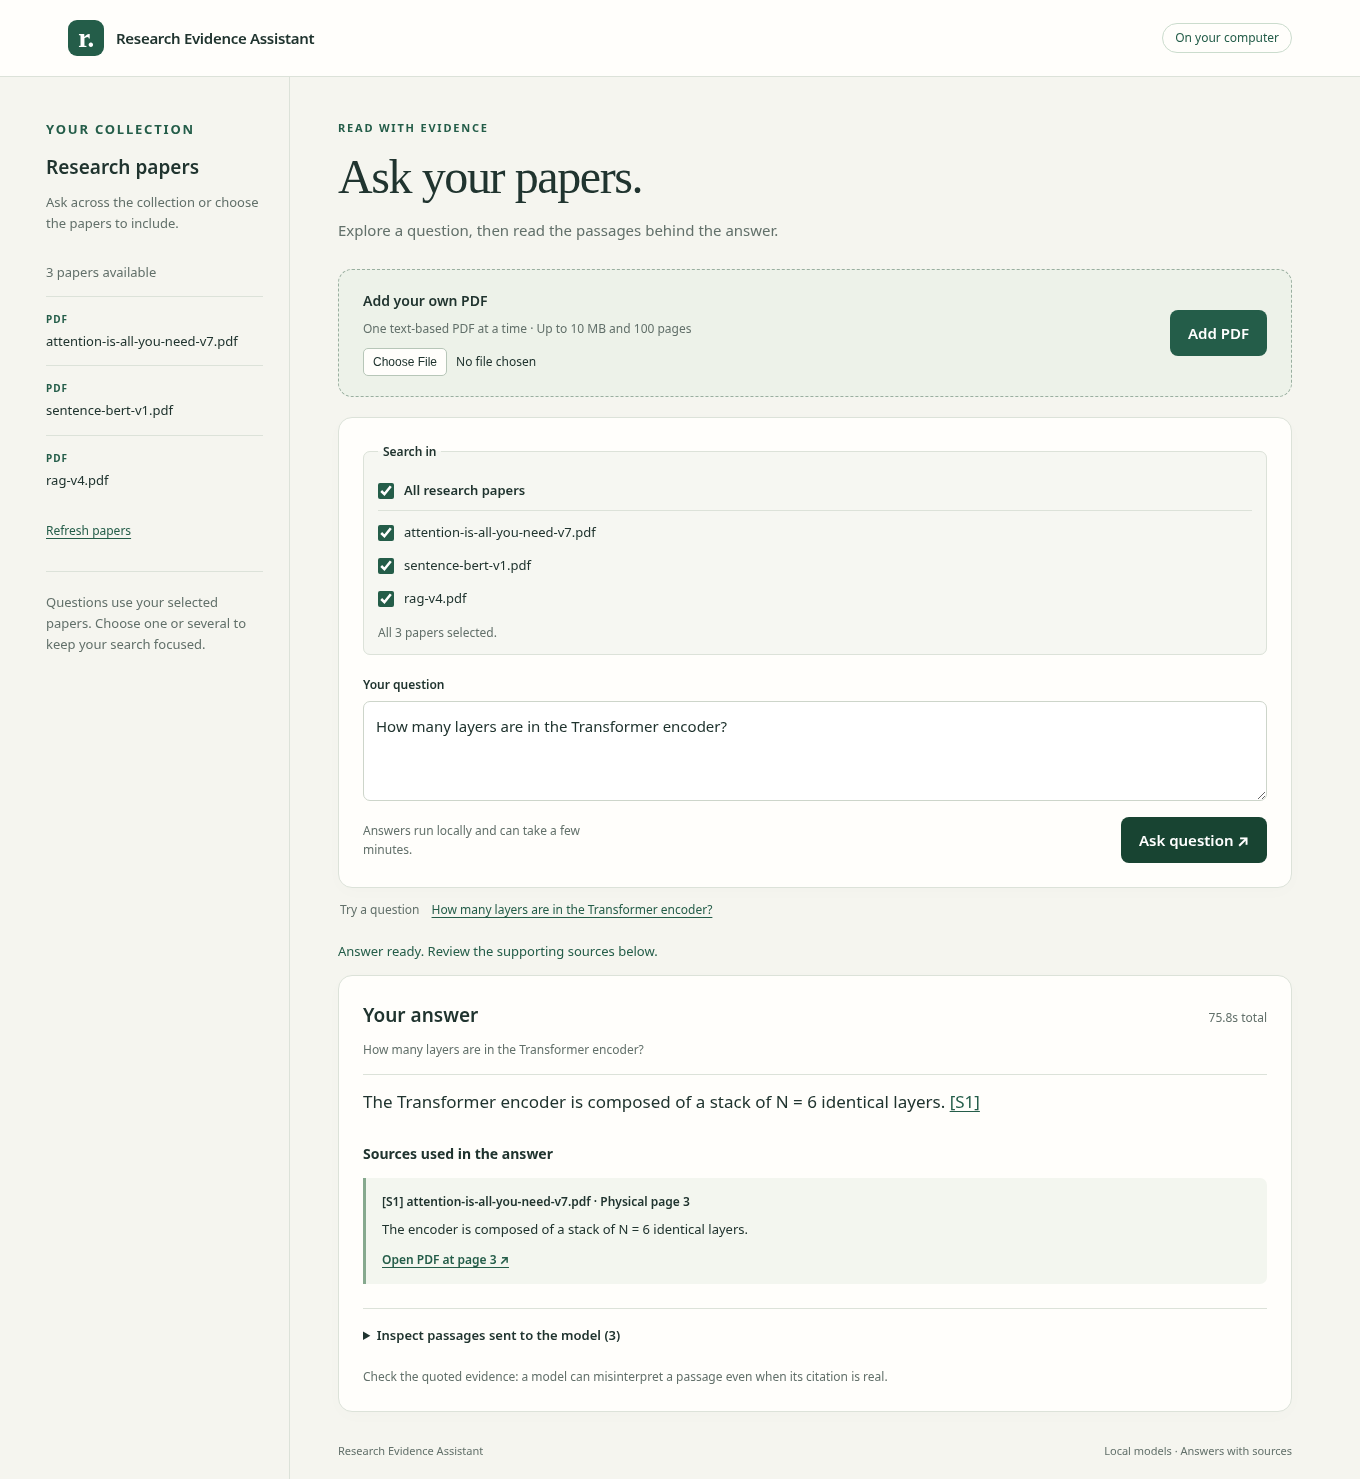
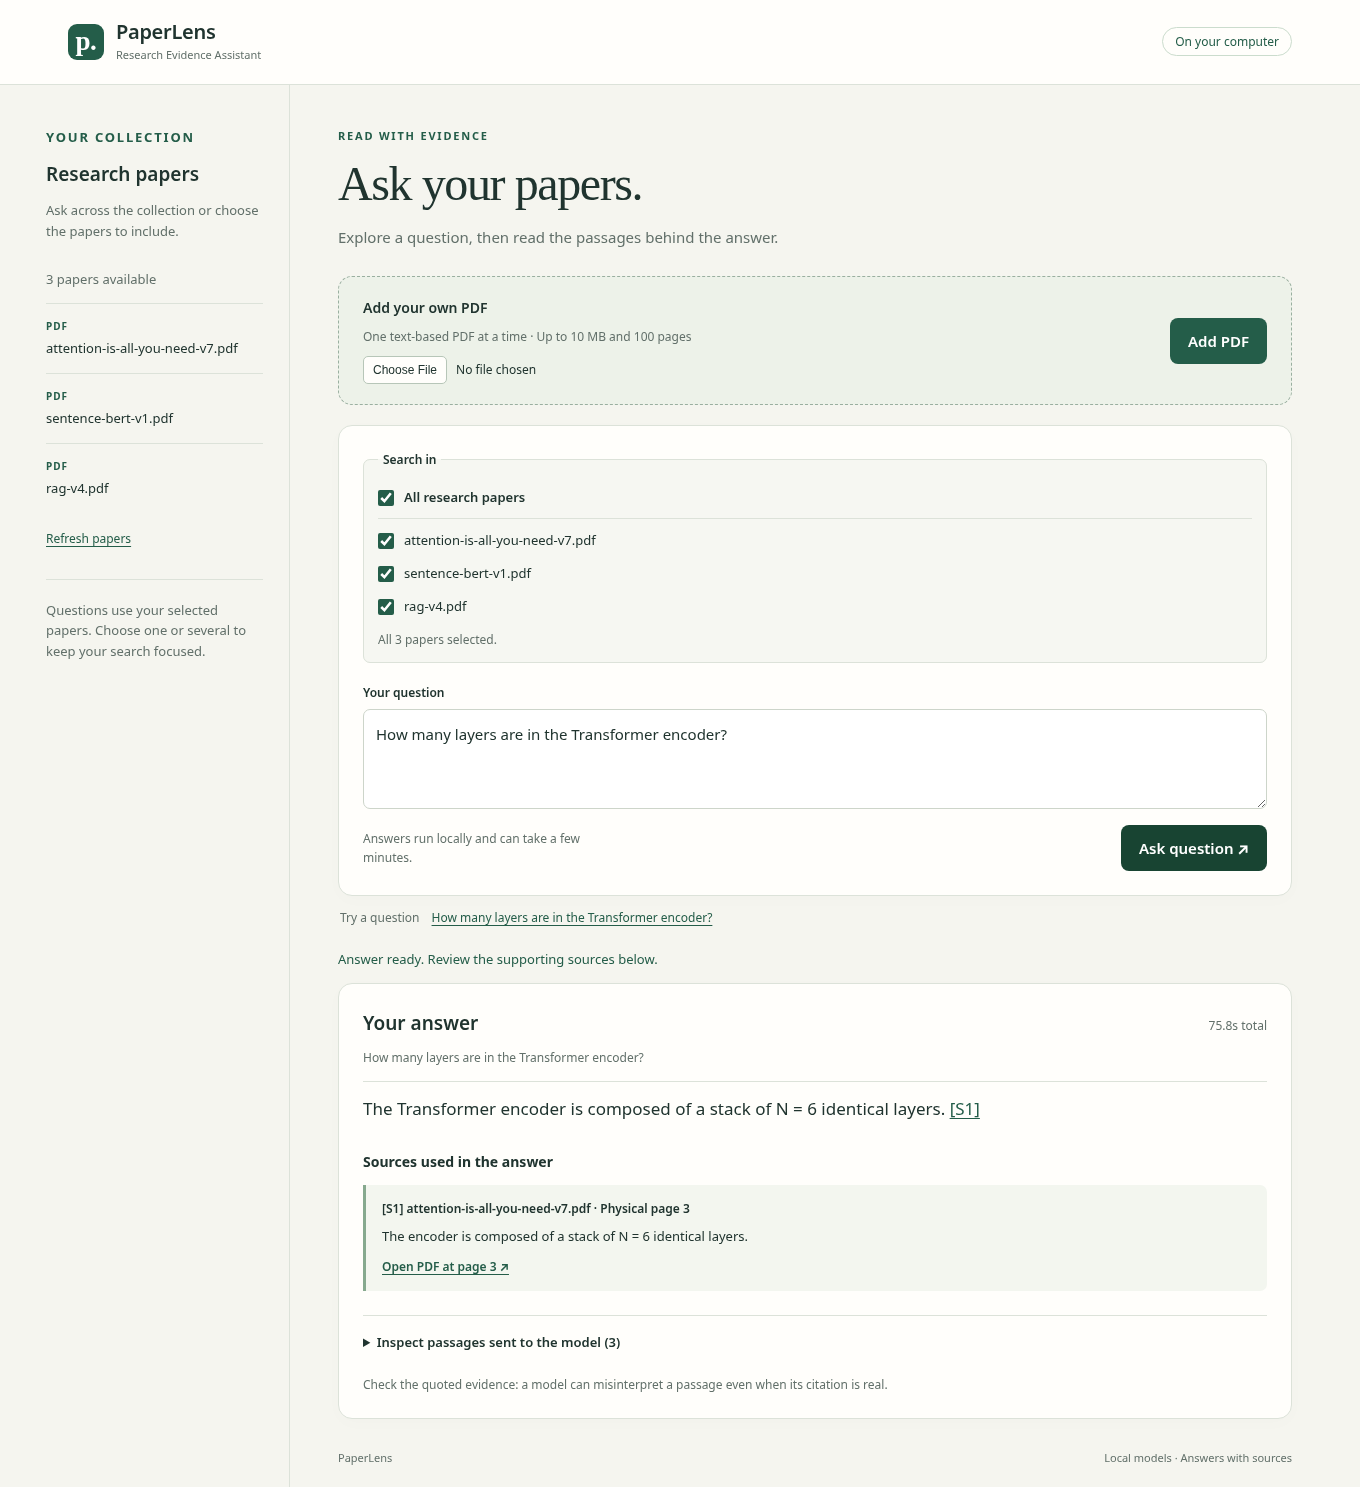
Brand website and README as PaperLens

diff --git a/api/templates/index.html b/api/templates/index.html
@@ -3,13 +3,16 @@
 <head>
   <meta charset="utf-8">
   <meta name="viewport" content="width=device-width, initial-scale=1">
-  <title>Research Evidence Assistant</title>
+  <title>PaperLens · Research Evidence Assistant</title>
   <link rel="stylesheet" href="{{ url_for('static', filename='app.css') }}">
   <script src="{{ url_for('static', filename='app.js') }}" defer></script>
 </head>
 <body>
   <header class="topbar">
-    <a class="brand" href="/" aria-label="Research Evidence Assistant home"><span class="brand-icon" aria-hidden="true">r.</span> Research Evidence Assistant</a>
+    <a class="brand" href="/" aria-label="PaperLens home">
+      <span class="brand-icon" aria-hidden="true">p.</span>
+      <span class="brand-copy"><span class="brand-name">PaperLens</span><span class="brand-subtitle">Research Evidence Assistant</span></span>
+    </a>
     <span class="local-label">On your computer</span>
   </header>
   <div class="workspace">
@@ -81,7 +84,7 @@
           <p class="evidence-note">Check the quoted evidence: a model can misinterpret a passage even when its citation is real.</p>
         </div>
       </section>
-      <footer class="page-footer">Research Evidence Assistant <span>Local models · Answers with sources</span></footer>
+      <footer class="page-footer">PaperLens <span>Local models · Answers with sources</span></footer>
     </main>
   </div>
 </body>

diff --git a/api/static/app.css b/api/static/app.css
@@ -9,6 +9,9 @@ button:disabled, select:disabled { cursor: not-allowed; opacity: .55; }
 .topbar { display: flex; align-items: center; justify-content: space-between; gap: 20px; padding: 20px 5%; border-bottom: 1px solid var(--line); background: var(--paper); }
 .brand { display: flex; align-items: center; gap: 12px; color: var(--ink); text-decoration: none; font-weight: 650; letter-spacing: -.3px; }
 .brand-icon { display: grid; place-items: center; width: 36px; height: 36px; border-radius: 9px; color: white; background: var(--green); font: bold 27px Georgia, serif; }
+.brand-copy { display: flex; flex-direction: column; gap: 2px; }
+.brand-name { font-size: 20px; line-height: 1.2; }
+.brand-subtitle { font-size: 11px; font-weight: 400; letter-spacing: 0; color: var(--muted); }
 .local-label { color: var(--green); font-size: 12px; border: 1px solid #cbdccd; padding: 4px 12px; border-radius: 20px; white-space: nowrap; }
 .workspace { max-width: 1320px; margin: auto; display: grid; grid-template-columns: 270px minmax(0, 1fr); }
 .library { padding: 42px 26px; border-right: 1px solid var(--line); }

diff --git a/api/templates/pdf-error.html b/api/templates/pdf-error.html
@@ -3,12 +3,12 @@
 <head>
   <meta charset="utf-8">
   <meta name="viewport" content="width=device-width, initial-scale=1">
-  <title>PDF unavailable · Research Evidence Assistant</title>
+  <title>PDF unavailable · PaperLens</title>
   <link rel="stylesheet" href="{{ url_for('static', filename='app.css') }}">
 </head>
 <body>
   <main class="pdf-error-page">
-    <p class="eyebrow">Research Evidence Assistant</p>
+    <p class="eyebrow">PaperLens · Research Evidence Assistant</p>
     <h1>PDF unavailable</h1>
     <p>{{ message }}</p>
     <a class="pdf-link" href="{{ url_for('home') }}">Return to the research assistant</a>

diff --git a/README.md b/README.md
@@ -1,12 +1,12 @@
-# Research Evidence Assistant
+# PaperLens — Research Evidence Assistant
 
-Ask questions about your research papers, read answers with source quotes, and open the cited PDF pages to check the evidence. A local **Retrieval-Augmented Generation (RAG)** application built with BGE embeddings, Qdrant, Qwen, and Flask.
+PaperLens lets you ask questions about your research papers, read answers with source quotes, and open the cited PDF pages to check the evidence. A local **Retrieval-Augmented Generation (RAG)** application built with BGE embeddings, Qdrant, Qwen, and Flask.
 
 [Setup](docs/setup.md) · [How RAG works](#understand-the-rag-pipeline) · [Using the app](#using-the-app) · [Evaluation](#evaluation-what-was-actually-measured) · [API guide](docs/backend-api.md)
 
 **Status: working local prototype.** Upload, search, answer generation, deletion, and PDF citation links work locally. Answer reliability remains limited; this project demonstrates the pipeline and its failure modes.
 
-![Research Evidence Assistant displaying an encoder-layer answer with its source quote](docs/assets/answer-preview.png)
+![PaperLens displaying an encoder-layer answer with its source quote](docs/assets/answer-preview.png)
 
 *Interface preview using a recorded local-model answer. The screenshot replays that result; it is not a new live accuracy measurement.*
 
